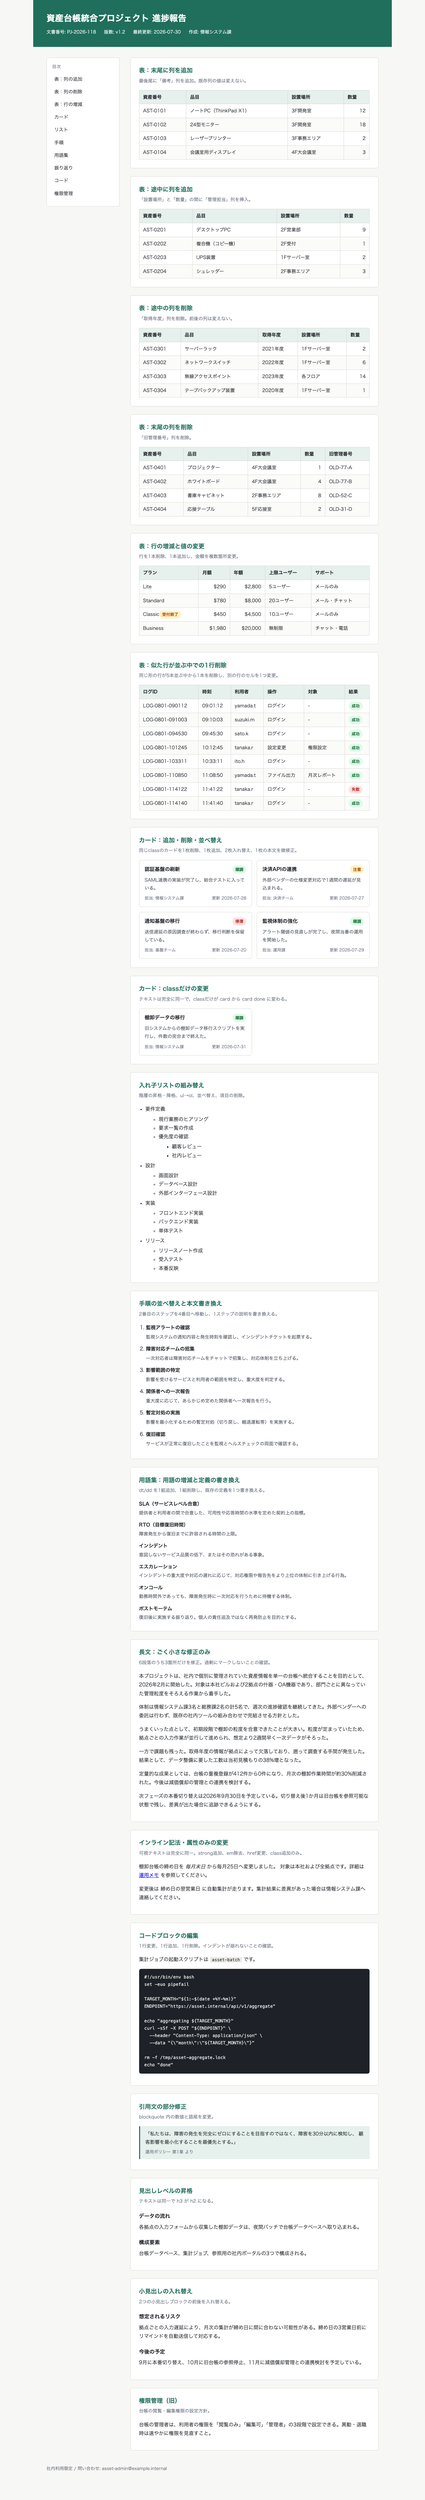
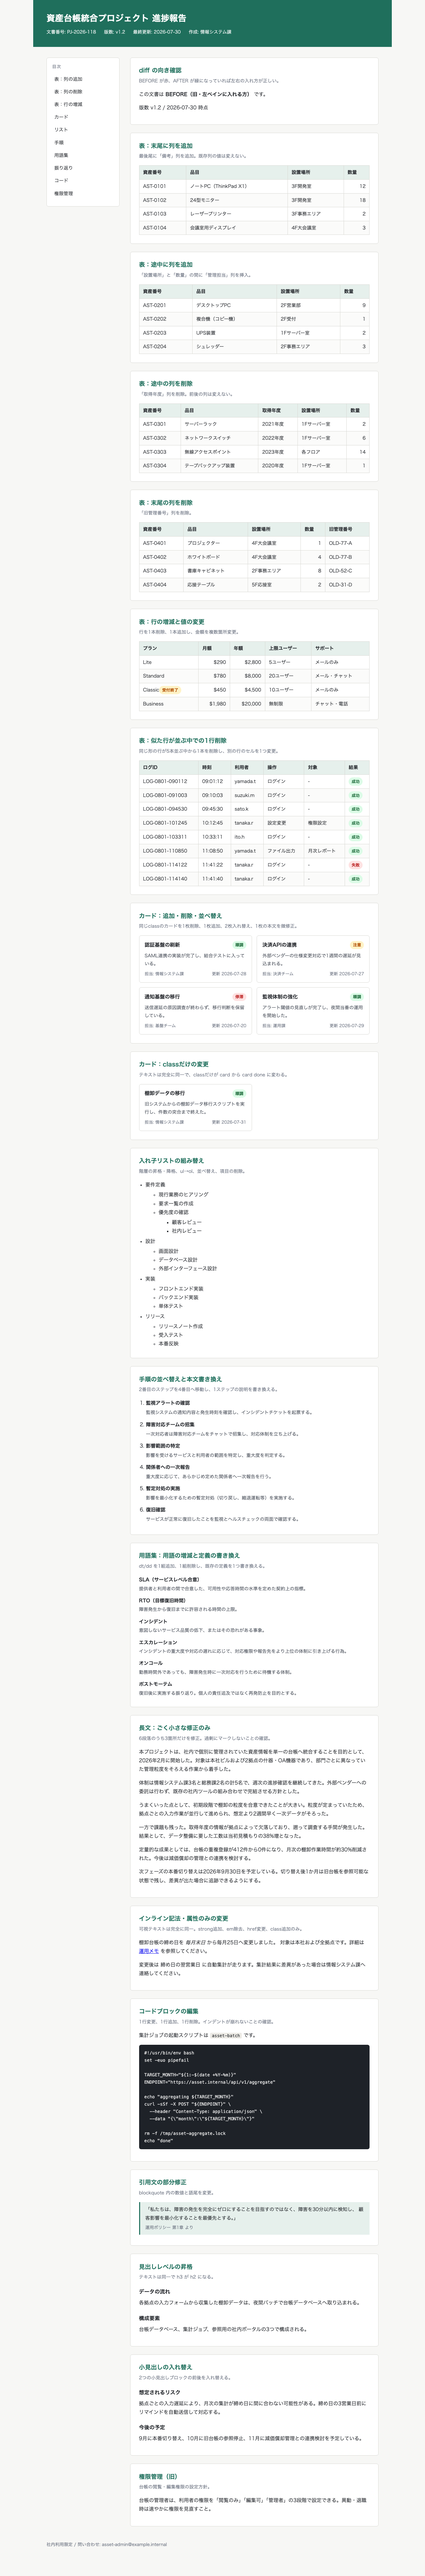
add: make the fixture state which direction it is being diffed in
Added columns were being reported as rendering red. Traced the whole
chain and found no inversion: the diff editor is built with
{original: beforeModel, modified: afterModel}, the left pane's drop
handler writes beforeModel and the right pane's writes afterModel, share
URLs and autosave both round-trip b to beforeModel and a to afterModel,
openHtmlView stages beforeModel as the old document, and there is exactly
one set of ins/del colour rules with no theme variant. Loading the two
files the other way round reproduces the report exactly, down to which
cells carry which marker.

So the fixture now says which file it is. The before file renders "この
文書は BEFORE（旧・左ペインに入れる方）です / 版数 v1.2" and the after
file says AFTER / v1.3, which makes the render self-describing: BEFORE
red and AFTER green means the panes are the right way round. Cheaper than
reasoning about a column's colour to work out which direction a diff was
taken in.

evidence/direction-correct.png and evidence/direction-swapped.png show
both orderings side by side.

Changed region(s): [[0.3125, 0.0, 0.875, 0.9961], [0.125, 0.0, 0.2188, 0.0934]]

diff --git a/diff-testcases/all-cases-before.html b/diff-testcases/all-cases-before.html
@@ -89,6 +89,12 @@ footer{padding:1.2rem 2.5rem;color:var(--muted);font-size:.82rem}
       </ul>
     </nav>
     <main>
+      <section id="sec-direction">
+        <h2>diff の向き確認</h2>
+        <p class="lead">BEFORE が赤、AFTER が緑になっていれば左右の入れ方が正しい。</p>
+        <p>この文書は <strong>BEFORE（旧・左ペインに入れる方）</strong> です。</p>
+        <p>版数 v1.2 / 2026-07-30 時点</p>
+      </section>
       <section id="sec-col-add-tail">
         <h2>表：末尾に列を追加</h2>
         <p class="lead">最後尾に「備考」列を追加。既存列の値は変えない。</p>

diff --git a/diff-testcases/all-cases-after.html b/diff-testcases/all-cases-after.html
@@ -89,6 +89,12 @@ footer{padding:1.2rem 2.5rem;color:var(--muted);font-size:.82rem}
       </ul>
     </nav>
     <main>
+      <section id="sec-direction">
+        <h2>diff の向き確認</h2>
+        <p class="lead">BEFORE が赤、AFTER が緑になっていれば左右の入れ方が正しい。</p>
+        <p>この文書は <strong>AFTER（新・右ペインに入れる方）</strong> です。</p>
+        <p>版数 v1.3 / 2026-08-01 時点</p>
+      </section>
       <section id="sec-col-add-tail">
         <h2>表：末尾に列を追加</h2>
         <p class="lead">最後尾に「備考」列を追加。既存列の値は変えない。</p>

diff --git a/diff-testcases/generate.py b/diff-testcases/generate.py
@@ -472,7 +472,23 @@ NEW_SECTION = section('sec-integration', '外部連携',
                       '        <p>資産台帳は、社内チャットおよび経理システムとの連携に対応する。連携設定は管理者権限を持つ利用者のみが行える。</p>')
 
 
+def sec_direction():
+    # どちら向きに diff を取っているかを、出力そのものから判別できるようにする。
+    # 正しい向き（左=before / 右=after）なら「BEFORE（旧）」が赤、「AFTER（新）」が緑になる。
+    # 逆に見えている場合は、エディタの左右に入れたファイルが入れ替わっている。
+    b = '\n'.join([
+        '        <p>この文書は <strong>BEFORE（旧・左ペインに入れる方）</strong> です。</p>',
+        '        <p>版数 v1.2 / 2026-07-30 時点</p>',
+    ])
+    a = '\n'.join([
+        '        <p>この文書は <strong>AFTER（新・右ペインに入れる方）</strong> です。</p>',
+        '        <p>版数 v1.3 / 2026-08-01 時点</p>',
+    ])
+    return b, a
+
+
 CASES = [
+    ('sec-direction', 'diff の向き確認', 'BEFORE が赤、AFTER が緑になっていれば左右の入れ方が正しい。', sec_direction),
     ('sec-col-add-tail', '表：末尾に列を追加', '最後尾に「備考」列を追加。既存列の値は変えない。', sec_col_add_tail),
     ('sec-col-add-mid', '表：途中に列を追加', '「設置場所」と「数量」の間に「管理担当」列を挿入。', sec_col_add_mid),
     ('sec-col-del-mid', '表：途中の列を削除', '「取得年度」列を削除。前後の列は変えない。', sec_col_del_mid),

diff --git a/diff-testcases/README.md b/diff-testcases/README.md
@@ -17,6 +17,7 @@ python3 diff-testcases/generate.py
 
 | Section id | Pattern exercised | What a correct rendering shows |
 |---|---|---|
+| `sec-direction` | diff の向きそのもの | The before file says it is BEFORE, the after file says it is AFTER, so the render states its own direction: **`BEFORE（旧）` red and `AFTER（新）` green**, version `v1.2`→`v1.3`. If this reads the other way round, the two files were loaded into the wrong panes — every other section will then look inverted too, with additions marked red. |
 | `sec-col-add-tail` | 表：末尾に列を追加（4→5列） | New `備考` header and one new cell per row marked **added**; every row still 5 cells; the four pre-existing columns unmarked. |
 | `sec-col-add-mid` | 表：途中に列を追加（`設置場所` と `数量` の間） | New `管理担当` column marked **added at index 3**; the `数量` column shifts right without being marked — index-based cell pairing would instead pair `数量` with `管理担当` and fuse their values. |
 | `sec-col-del-mid` | 表：途中の列を削除（`取得年度`） | The removed column is put **back in place** marked **deleted**, values intact, so the table renders 5 wide with one struck column. Silently dropping it would make a column deletion invisible. |
